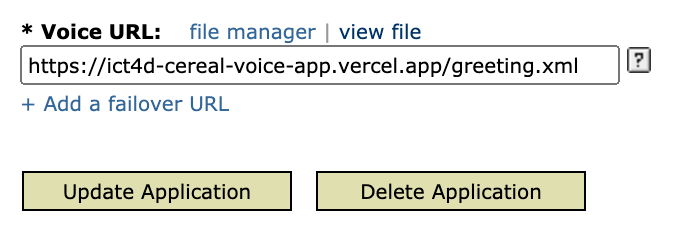
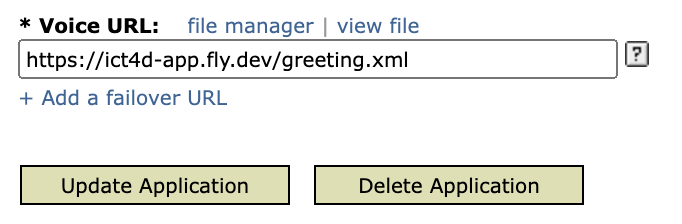
docs: update readme

Changed region(s): [[0.0, 0.0625, 0.9659, 0.4688], [0.0312, 0.7188, 0.8724, 0.9375]]

diff --git a/README.md b/README.md
@@ -1,12 +1,22 @@
 # Improving Cereal Seed Systems in Rural Mali
 
-The app is deployed on [voxeo](evolution.voxeo.com).
+The app is deployed on [voxeo](evolution.voxeo.com) (voice browser) and [fly.io](fly.io) (backend).
 
-The Voice URL should be https://ict4d-cereal-voice-app.vercel.app/greeting.xml .
+The Voice URL in voxeo config should be https://ict4d-app.fly.dev/greeting.xml .
 
 ![illustration](sample.png)
 
----
+## Setup
+
+The deployment includes a Postgres database, whose configuration file is not in this repo since it is an [out-of-the-box database](https://fly.io/docs/postgres/) provided by fly.io.
+
+To connect with the database locally for testing purpose with [flycli](https://fly.io/docs/flyctl/) (assume the database is named as `ict4d-db`):
+
+```shell
+fly postgres connect -a ict4d-db
+```
+
+## Structure
 
 The application flow:
 
